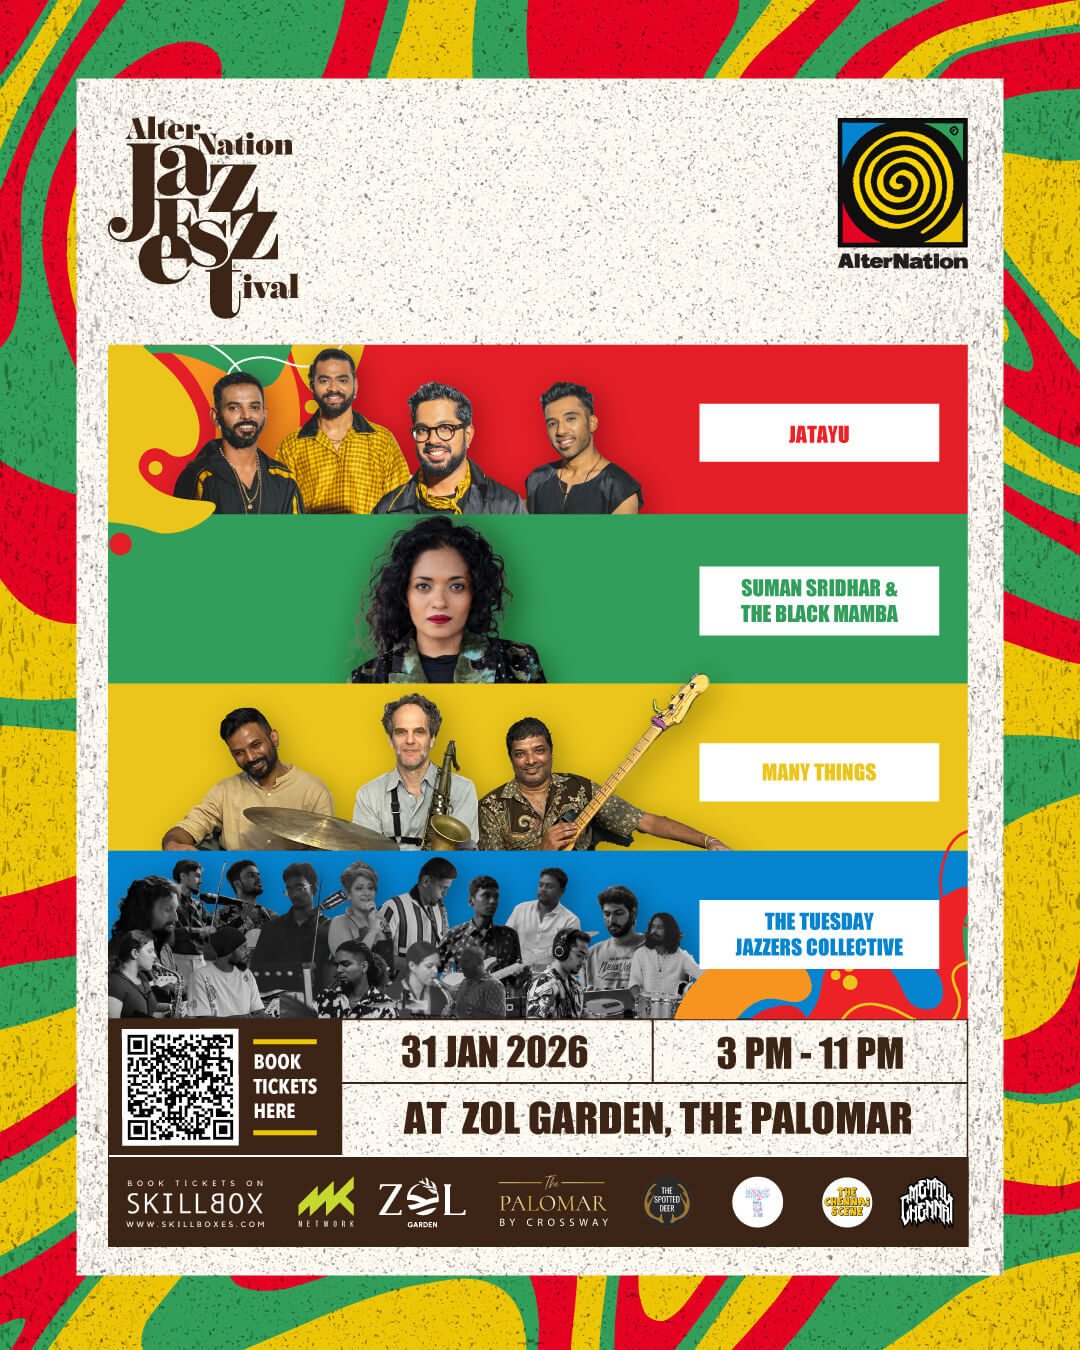
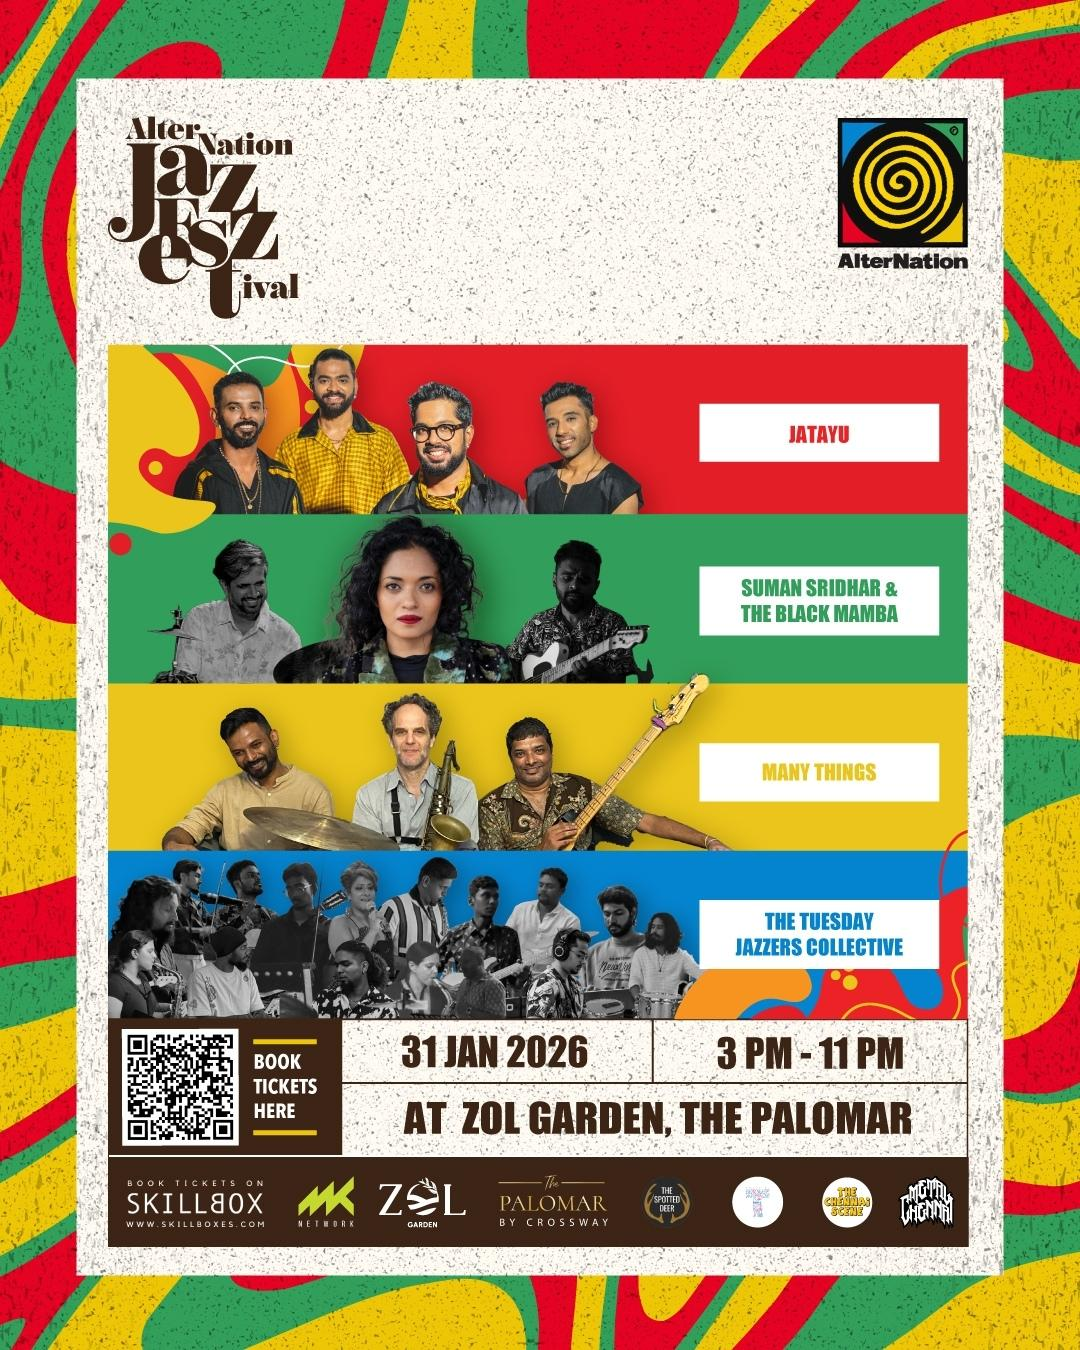
Jazz fest images updated

diff --git a/app/jazz-festival/page.tsx b/app/jazz-festival/page.tsx
@@ -32,146 +32,192 @@ export default function JazzFestival() {
           </p>
         </div>
 
-        <div>
-          <h3 className="text-xl font-bold text-white mb-3">Jatayu</h3>
-          <p>
-            
-            Jatayu is a genre-blurring four-piece band from Chennai, India,
-            known for their unique sound shaped at the crossroads of Carnatic
-            music, jazz, rock, and modern improvisation. Jatayu's performance
-            will launch their new EP, Jewel Tones, a project that reimagines
-            traditional Carnatic compositions through the lens of contemporary
-            jazz and groove-driven improvisation.
-          </p>
-          <p>
-            <Link
-              href="https://instagram.com/jatayusounds"
-              target="_blank"
-              rel="noopener noreferrer"
-              className="text-blue-400 hover:text-blue-300 inline-flex items-center gap-2"
-            >
-              <FontAwesomeIcon icon={faInstagram} className="text-lg" />
-              @jatayusounds
-            </Link>
-          </p>
-          <p>
-            <Link
-              href="https://www.youtube.com/@Jatayu"
-              target="_blank"
-              rel="noopener noreferrer"
-              className="text-blue-400 hover:text-blue-300 inline-flex items-center gap-2"
-            >
-              <FontAwesomeIcon icon={faYoutube} className="text-lg" />
-              Video
-            </Link>
-          </p>
+        <div className="grid grid-cols-2 gap-6 items-start">
+          <div>
+            <h3 className="text-xl font-bold text-white mb-3">
+              Jatayu
+            </h3>
+            <p>
+              Jatayu is a genre-blurring four-piece band from Chennai, India,
+              known for their unique sound shaped at the crossroads of Carnatic
+              music, jazz, rock, and modern improvisation. Jatayu's performance
+              will launch their new EP, Jewel Tones, a project that reimagines
+              traditional Carnatic compositions through the lens of contemporary
+              jazz and groove-driven improvisation.
+            </p>
+            <p className="mt-4">
+              <Link
+                href="https://instagram.com/jatayusounds"
+                target="_blank"
+                rel="noopener noreferrer"
+                className="text-blue-400 hover:text-blue-300 inline-flex items-center gap-2"
+              >
+                <FontAwesomeIcon icon={faInstagram} className="text-lg" />
+                @jatayusounds
+              </Link>
+            </p>
+            <p className="mt-2">
+              <Link
+                href="https://www.youtube.com/@Jatayu"
+                target="_blank"
+                rel="noopener noreferrer"
+                className="text-blue-400 hover:text-blue-300 inline-flex items-center gap-2"
+              >
+                <FontAwesomeIcon icon={faYoutube} className="text-lg" />
+                Video
+              </Link>
+            </p>
+          </div>
+          <div className="flex justify-center">
+            <img
+              src="/bands/Jatayu_ANJ.jpg"
+              alt="Jatayu"
+              className="w-3/4 h-auto rounded-lg"
+            />
+          </div>
         </div>
 
-        <div>
-          <h3 className="text-xl font-bold text-white mb-3">
-            Suman Sridhar and The Black Mamba
-          </h3>
-          <p>
-            Suman Sridhar is a singer and award-winning artist from Mumbai who
-            fuses jazz, pop, Indian classical, opera, spoken word in her
-            performances. Her band includes Subid Khan on guitar and Vaibhav
-            Wavikar on drums.
-          </p>
-          <p>
-            <Link
-              href="https://instagram.com/sumansridhar"
-              target="_blank"
-              rel="noopener noreferrer"
-              className="text-blue-400 hover:text-blue-300 inline-flex items-center gap-2"
-            >
-              <FontAwesomeIcon icon={faInstagram} className="text-lg" />
-              @sumansridhar
-            </Link>
-          </p>
-          <p>
-            <Link
-              href="https://www.youtube.com/@SumanSridhar/"
-              target="_blank"
-              rel="noopener noreferrer"
-              className="text-blue-400 hover:text-blue-300 inline-flex items-center gap-2"
-            >
-              <FontAwesomeIcon icon={faYoutube} className="text-lg" />
-              Video
-            </Link>
-          </p>
+        <div className="grid grid-cols-2 gap-6 items-start">
+          <div>
+            <h3 className="text-xl font-bold text-white mb-3">
+              Suman Sridhar and The Black Mamba
+            </h3>
+            <p>
+              Suman Sridhar is a singer and award-winning artist from Mumbai who
+              fuses jazz, pop, Indian classical, opera, spoken word in her
+              performances. Her band includes Subid Khan on guitar and Vaibhav
+              Wavikar on drums.
+            </p>
+            <p className="mt-4">
+              <Link
+                href="https://instagram.com/sumansridhar"
+                target="_blank"
+                rel="noopener noreferrer"
+                className="text-blue-400 hover:text-blue-300 inline-flex items-center gap-2"
+              >
+                <FontAwesomeIcon icon={faInstagram} className="text-lg" />
+                @sumansridhar
+              </Link>
+            </p>
+            <p className="mt-2">
+              <Link
+                href="https://www.youtube.com/@SumanSridhar/"
+                target="_blank"
+                rel="noopener noreferrer"
+                className="text-blue-400 hover:text-blue-300 inline-flex items-center gap-2"
+              >
+                <FontAwesomeIcon icon={faYoutube} className="text-lg" />
+                Video
+              </Link>
+            </p>
+          </div>
+          <div className="flex justify-center">
+            <img
+              src="/bands/SumanSridhar_ANJ.jpg"
+              alt="Suman Sridhar and The Black Mamba"
+              className="w-3/4 h-auto rounded-lg"
+            />
+          </div>
         </div>
 
-        <div>
-          <h3 className="text-xl font-bold text-white mb-3">Many Things</h3>
-          <p>
-            Chennai-based Avant Garde Jazz trio, Many Things are veterans of the Chennai Jazz scene. In 2025, they released their second studio album, Two Many Things. Many Things combine jazz, rock, classical
-            and funk and delicately treads the fine line between composition and
-            improvisation.
-          </p>
-          <p>
-            <Link
-              href="https://instagram.com/manythingsmadras"
-              target="_blank"
-              rel="noopener noreferrer"
-              className="text-blue-400 hover:text-blue-300 inline-flex items-center gap-2"
-            >
-              <FontAwesomeIcon icon={faInstagram} className="text-lg" />
-              @manythingsmadras
-            </Link>
-          </p>
-          <p>
-            <Link
-              href="https://www.youtube.com/@manythingschennai"
-              target="_blank"
-              rel="noopener noreferrer"
-              className="text-blue-400 hover:text-blue-300 inline-flex items-center gap-2"
-            >
-              <FontAwesomeIcon icon={faYoutube} className="text-lg" />
-              @manythingschennai
-            </Link>
-          </p>
+        <div className="grid grid-cols-2 gap-6 items-start">
+          <div>
+            <h3 className="text-xl font-bold text-white mb-3">Many Things</h3>
+            <p>
+              Chennai-based Avant Garde Jazz trio, Many Things are veterans of the Chennai Jazz scene. In 2025, they released their second studio album, Two Many Things. Many Things combine jazz, rock, classical
+              and funk and delicately treads the fine line between composition and
+              improvisation.
+            </p>
+            <p className="mt-4">
+              <Link
+                href="https://instagram.com/manythingsmadras"
+                target="_blank"
+                rel="noopener noreferrer"
+                className="text-blue-400 hover:text-blue-300 inline-flex items-center gap-2"
+              >
+                <FontAwesomeIcon icon={faInstagram} className="text-lg" />
+                @manythingsmadras
+              </Link>
+            </p>
+            <p className="mt-2">
+              <Link
+                href="https://www.youtube.com/@manythingschennai"
+                target="_blank"
+                rel="noopener noreferrer"
+                className="text-blue-400 hover:text-blue-300 inline-flex items-center gap-2"
+              >
+                <FontAwesomeIcon icon={faYoutube} className="text-lg" />
+                @manythingschennai
+              </Link>
+            </p>
+          </div>
+          <div className="flex justify-center">
+            <img
+              src="/bands/ManyThings_ANJ.jpg"
+              alt="Many Things"
+              className="w-3/4 h-auto rounded-lg"
+            />
+          </div>
         </div>
 
-        <div>
-          <h3 className="text-xl font-bold text-white mb-3">
-            The Tuesday Jazzers Collective
-          </h3>
-          <p>
-            Chennai's up and coming Jazz musicians, will open the show in the
-            afternoon, performing three sets of well loved, classic American
-            jazz music.
-          </p>
-          <p>
-            <Link
-              href="https://instagram.com/tuesdayjazzerscollective"
-              target="_blank"
-              rel="noopener noreferrer"
-              className="text-blue-400 hover:text-blue-300 inline-flex items-center gap-2"
-            >
-              <FontAwesomeIcon icon={faInstagram} className="text-lg" />
-              @Tuesdayjazzerscollective
-            </Link>
-          </p>
+        <div className="grid grid-cols-2 gap-6 items-start">
+          <div>
+            <h3 className="text-xl font-bold text-white mb-3">
+              The Tuesday Jazzers Collective
+            </h3>
+            <p>
+              Chennai's up and coming Jazz musicians, will open the show in the
+              afternoon, performing three sets of well loved, classic American
+              jazz music.
+            </p>
+            <p className="mt-4">
+              <Link
+                href="https://instagram.com/tuesdayjazzerscollective"
+                target="_blank"
+                rel="noopener noreferrer"
+                className="text-blue-400 hover:text-blue-300 inline-flex items-center gap-2"
+              >
+                <FontAwesomeIcon icon={faInstagram} className="text-lg" />
+                @Tuesdayjazzerscollective
+              </Link>
+            </p>
+          </div>
+          <div className="flex justify-center">
+            <img
+              src="/bands/TJC_ANJ.jpg"
+              alt="The Tuesday Jazzers Collective"
+              className="w-3/4 h-auto rounded-lg"
+            />
+          </div>
         </div>
 
-        <div>
-          <h3 className="text-xl font-bold text-white mb-3">Live Visual Art</h3>
-          <p>
-            During the festival, Chennai-based new media art duo, Television
-            Dust will create a series of 'jazz paintings', live visual
-            compositions that interpret each artist's music in real time.
-          </p>
-          <p>
-            <Link
-              href="https://instagram.com/television_dust"
-              target="_blank"
-              rel="noopener noreferrer"
-              className="text-blue-400 hover:text-blue-300 inline-flex items-center gap-2"
-            >
-              <FontAwesomeIcon icon={faInstagram} className="text-lg" />
-              @television_dust
-            </Link>
-          </p>
+        <div className="grid grid-cols-2 gap-6 items-start">
+          <div>
+            <h3 className="text-xl font-bold text-white mb-3">Live Visual Art</h3>
+            <p>
+              During the festival, Chennai-based new media art duo, Television
+              Dust will create a series of 'jazz paintings', live visual
+              compositions that interpret each artist's music in real time.
+            </p>
+            <p className="mt-4">
+              <Link
+                href="https://instagram.com/television_dust"
+                target="_blank"
+                rel="noopener noreferrer"
+                className="text-blue-400 hover:text-blue-300 inline-flex items-center gap-2"
+              >
+                <FontAwesomeIcon icon={faInstagram} className="text-lg" />
+                @television_dust
+              </Link>
+            </p>
+          </div>
+          <div className="flex justify-center">
+            <img
+              src="/bands/TelevisionDust_ANJ.jpg"
+              alt="Television Dust"
+              className="w-3/4 h-auto rounded-lg"
+            />
+          </div>
         </div>
 
         <div className="mt-8 pt-8 border-t border-gray-700">

diff --git a/app/weekly-jazz-workshops/page.tsx b/app/weekly-jazz-workshops/page.tsx
@@ -13,12 +13,11 @@ export default function WeeklyJazzWorkshops() {
             Weekly Jazz Workshops in Chennai
           </h2>
           <p>
-            Maarten Visser, the world-renowned Saxophonist and composer based in
-            Chennai, runs weekly workshops for musicians to come together to
-            learn and develop fundamental jazz music skills, improvisation,
-            harmony and performance. These workshops are run in Adyar, Chennai
-            in the early evening and are open to all, with only a small monthly
-            fee expected.
+            Maarten Visser, the acclaimed Saxophonist and composer, runs weekly
+            workshops for musicians to come together to learn and develop
+            fundamental jazz music skills, improvisation, harmony and
+            performance. These workshops are run in Adyar, Chennai in the early
+            evening and are open to all, with only a small monthly fee expected.
           </p>
         </div>
 
@@ -27,8 +26,12 @@ export default function WeeklyJazzWorkshops() {
             Workshop Schedule
           </h2>
           <div className="space-y-4">
-            <p><strong>Tuesday Workshop:</strong> For intermediate musicians</p>
-            <p><strong>Wednesday Workshop:</strong> For beginners</p>
+            <p>
+              <strong>Tuesday Workshop:</strong> For intermediate musicians
+            </p>
+            <p>
+              <strong>Wednesday Workshop:</strong> For beginners
+            </p>
           </div>
         </div>
 
